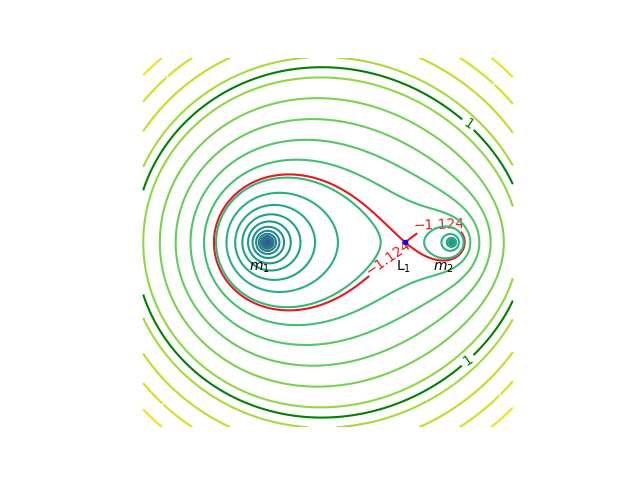
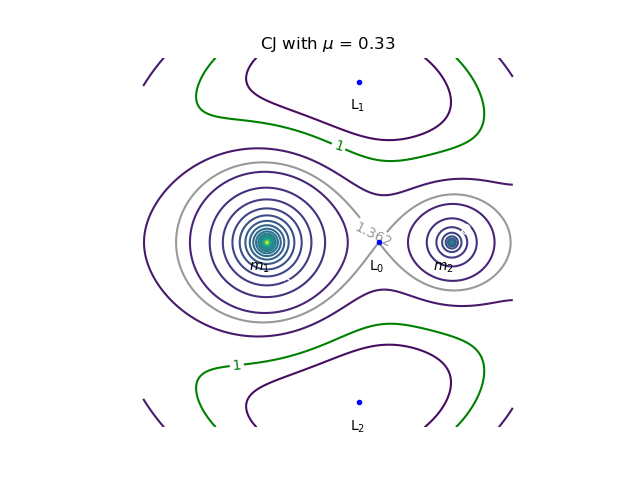
Corrected_Log_Potential
Log potential corrected equations to solve Lagrange points

Changed region(s): [[0.2188, 0.0625, 0.8125, 0.9062]]

diff --git a/Jacobi_Log.py b/Jacobi_Log.py
@@ -13,7 +13,7 @@ def CJ(x, y, z, mu):
     r1 = np.sqrt((x + mu2) ** 2 + y ** 2 + z ** 2)
     r2 = np.sqrt((x - mu1) ** 2 + y ** 2 + z ** 2)
 
-    CJ = x ** 2 + y ** 2 + 2 * (mu1 * np.log(r1) + mu2 * np.log(r2))
+    CJ = x ** 2 + y ** 2 - 2 * (mu1 * np.log(r1) + mu2 * np.log(r2))
     return CJ
 
 
@@ -47,8 +47,9 @@ if __name__ == "__main__":
     # Lagrange contours
 
     fig = plt.figure(1)
+    plt.title(f"CJ with $\mu$ = {mu}")
     # plt.contour(x, y, CJ_general, levels=1000)
-    cLagrange = plt.contour(xx, yy, CJ_general, levels=[CJ_Lagrange], cmap=cm.Set1, zorder=-1)
+    cLagrange = plt.contour(xx, yy, CJ_general, levels=CJ_Lagrange[1::-1], cmap=cm.Set1, zorder=-1)
     c = plt.contour(xx, yy, CJ_general, levels=[1, 2], cmap=cm.ocean)
     plt.clabel(cLagrange, inline=True)
     plt.clabel(c, inline=True)
@@ -67,7 +68,8 @@ if __name__ == "__main__":
 
     plt.scatter(Lx, Ly, marker='.', color='b', zorder=1)
     try:
-        plt.text(Lx[0] - 0.05, Ly[0] - 0.15, r'L$_1$')
+        for ii in range(Lx.size):
+            plt.text(Lx[ii] - 0.05, Ly[ii] - 0.15, f'L$_{ii}$')
     except:
         plt.text(Lx - 0.05, Ly - 0.15, r'L$_1$')
 

diff --git a/Lagrane_Euler_Log.py b/Lagrane_Euler_Log.py
@@ -6,12 +6,14 @@ from scipy import optimize
 
 
 def f1(x, mu):
-    return x + (1 - mu) / (x + mu) + mu / (x - 1 + mu)
+    return x - (1 - mu) * (x+mu) / (x + mu)**2 - mu * (x - 1 + mu) / (x - 1 + mu)**2
 
 
 def LagrangePoints(mu):
     L1 = (optimize.newton(f1, 0, args=(mu,), maxiter=1000000), 0)
-    result = L1
+    L2 = (1 / 2 - mu, np.sqrt(3) / 2)
+    L3 = (1 / 2 - mu, -np.sqrt(3) / 2)
+    result = L1, L2, L3
     return result
 
 
@@ -51,4 +53,4 @@ if __name__=="__main__":
         plt.grid(True)
 
         plt.legend()
-        fig.savefig('Log LagrangeEulerCollinearNewton')
+        fig.savefig('LagrangeEulerCollinearLog')
